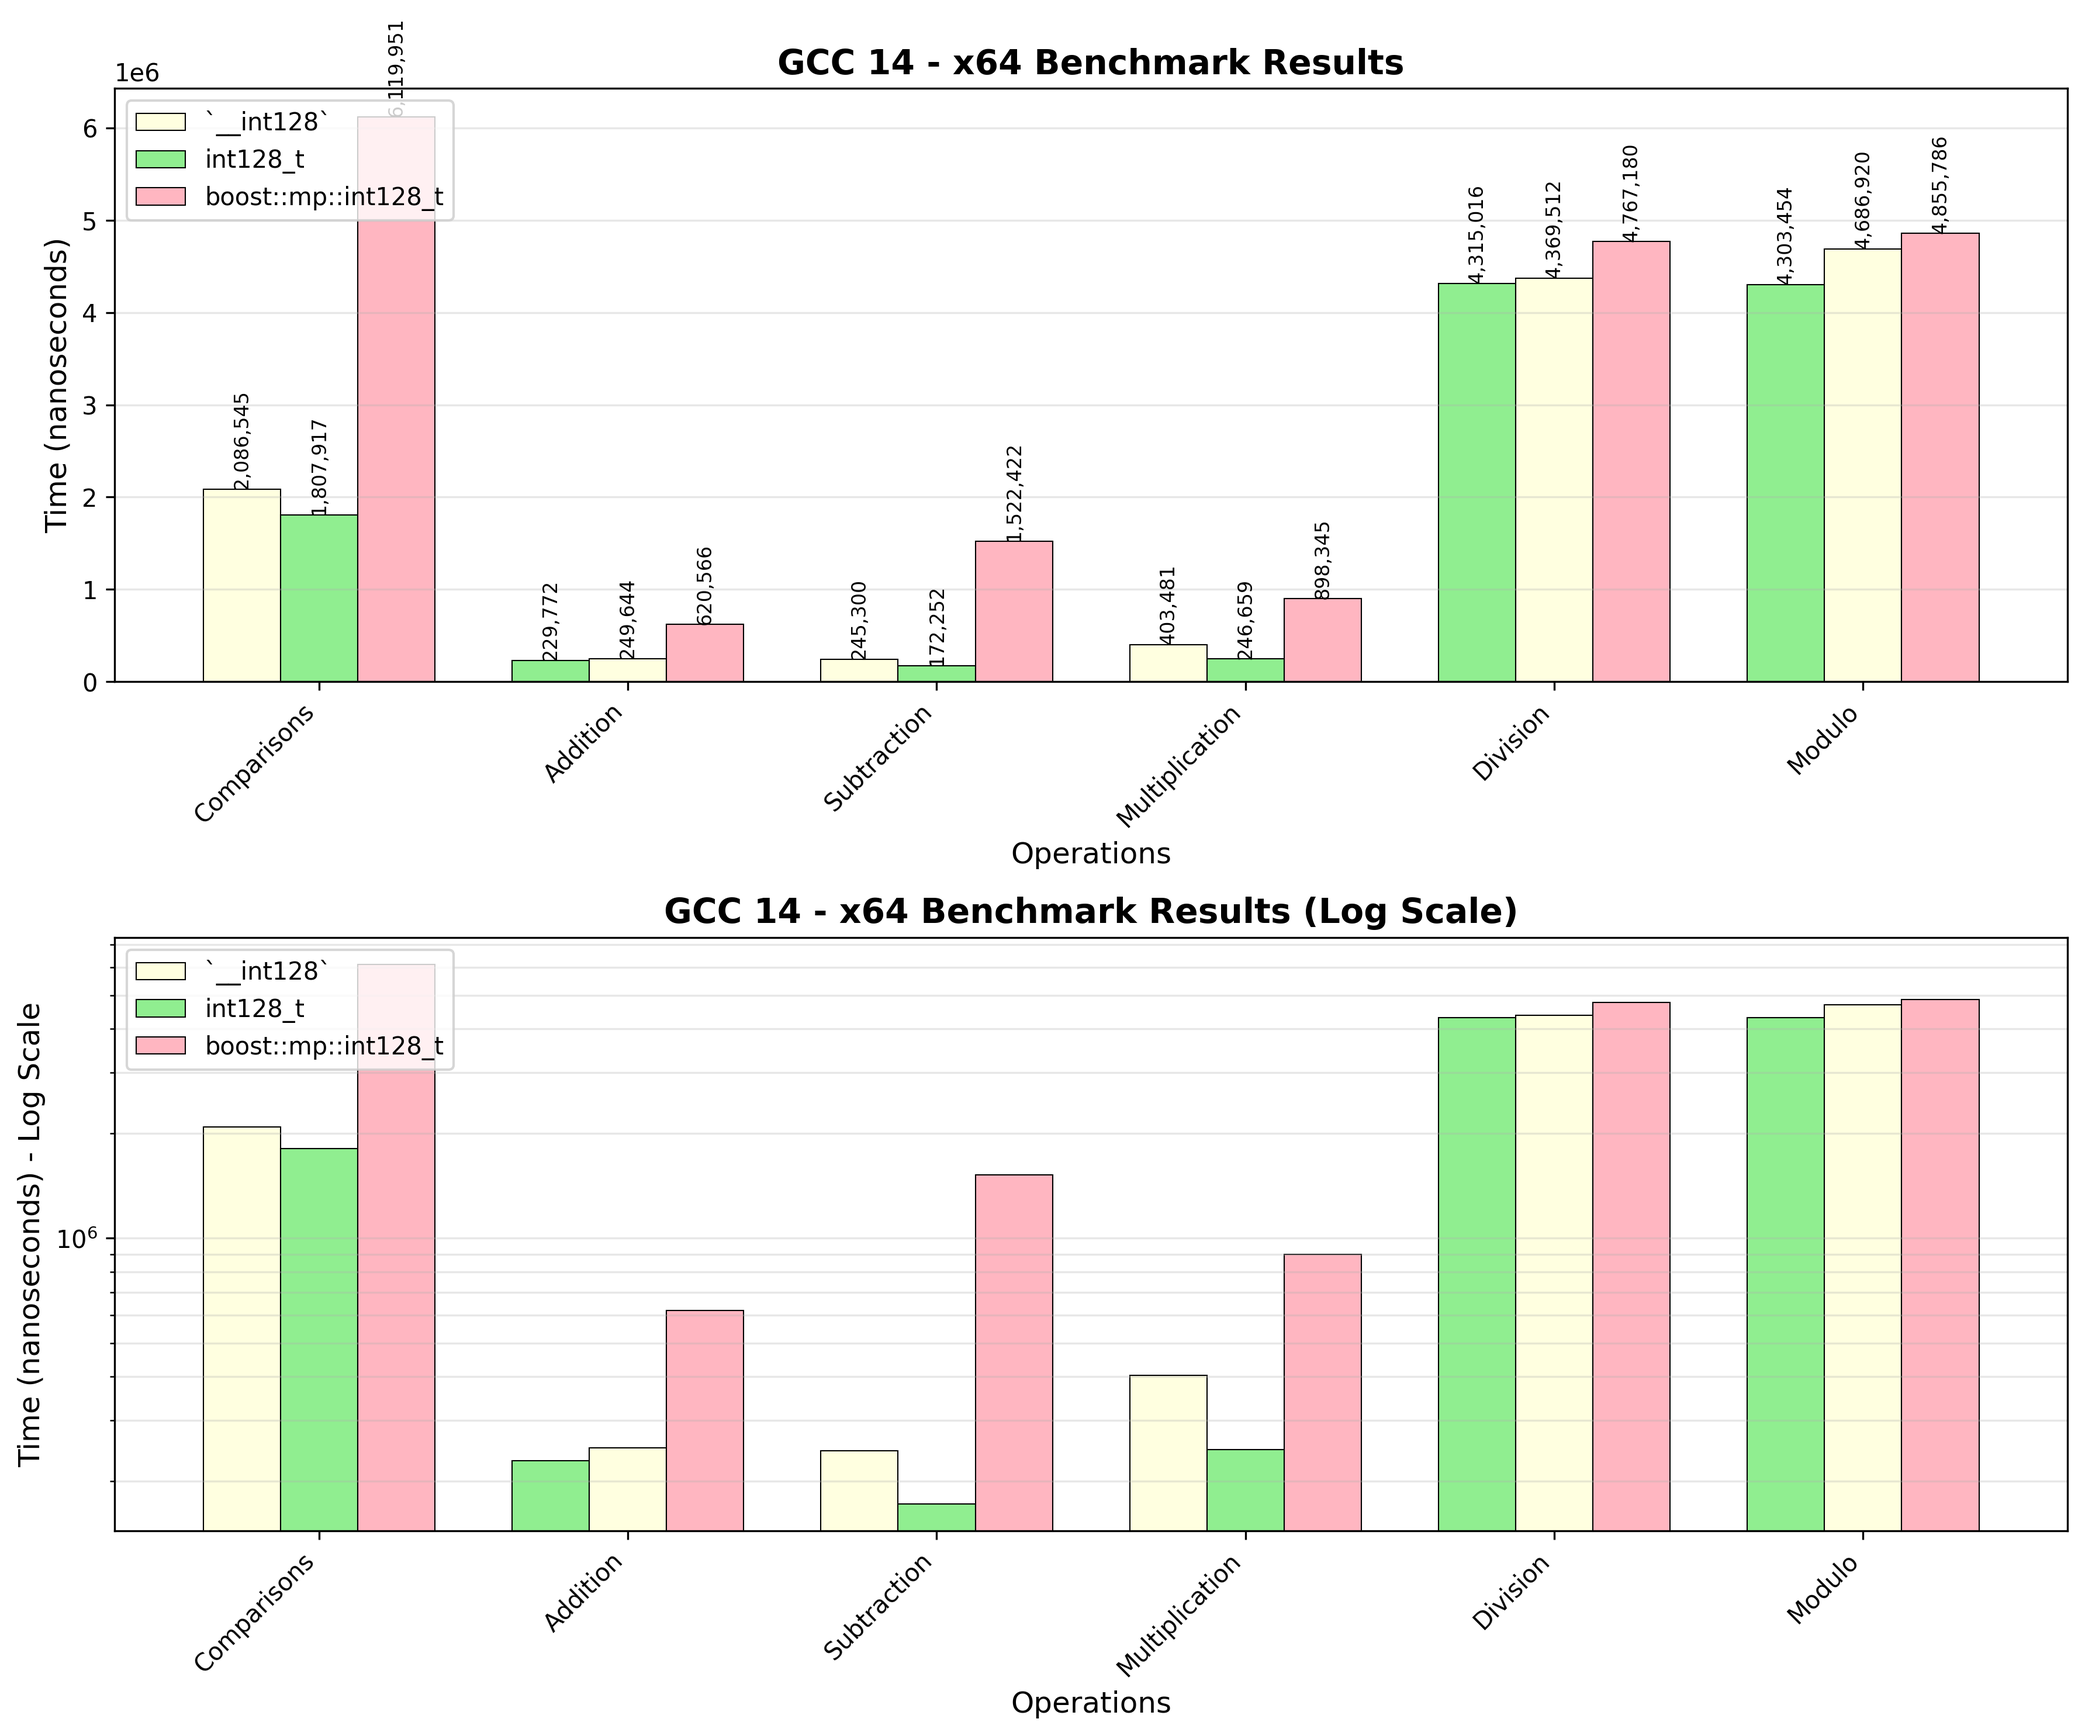
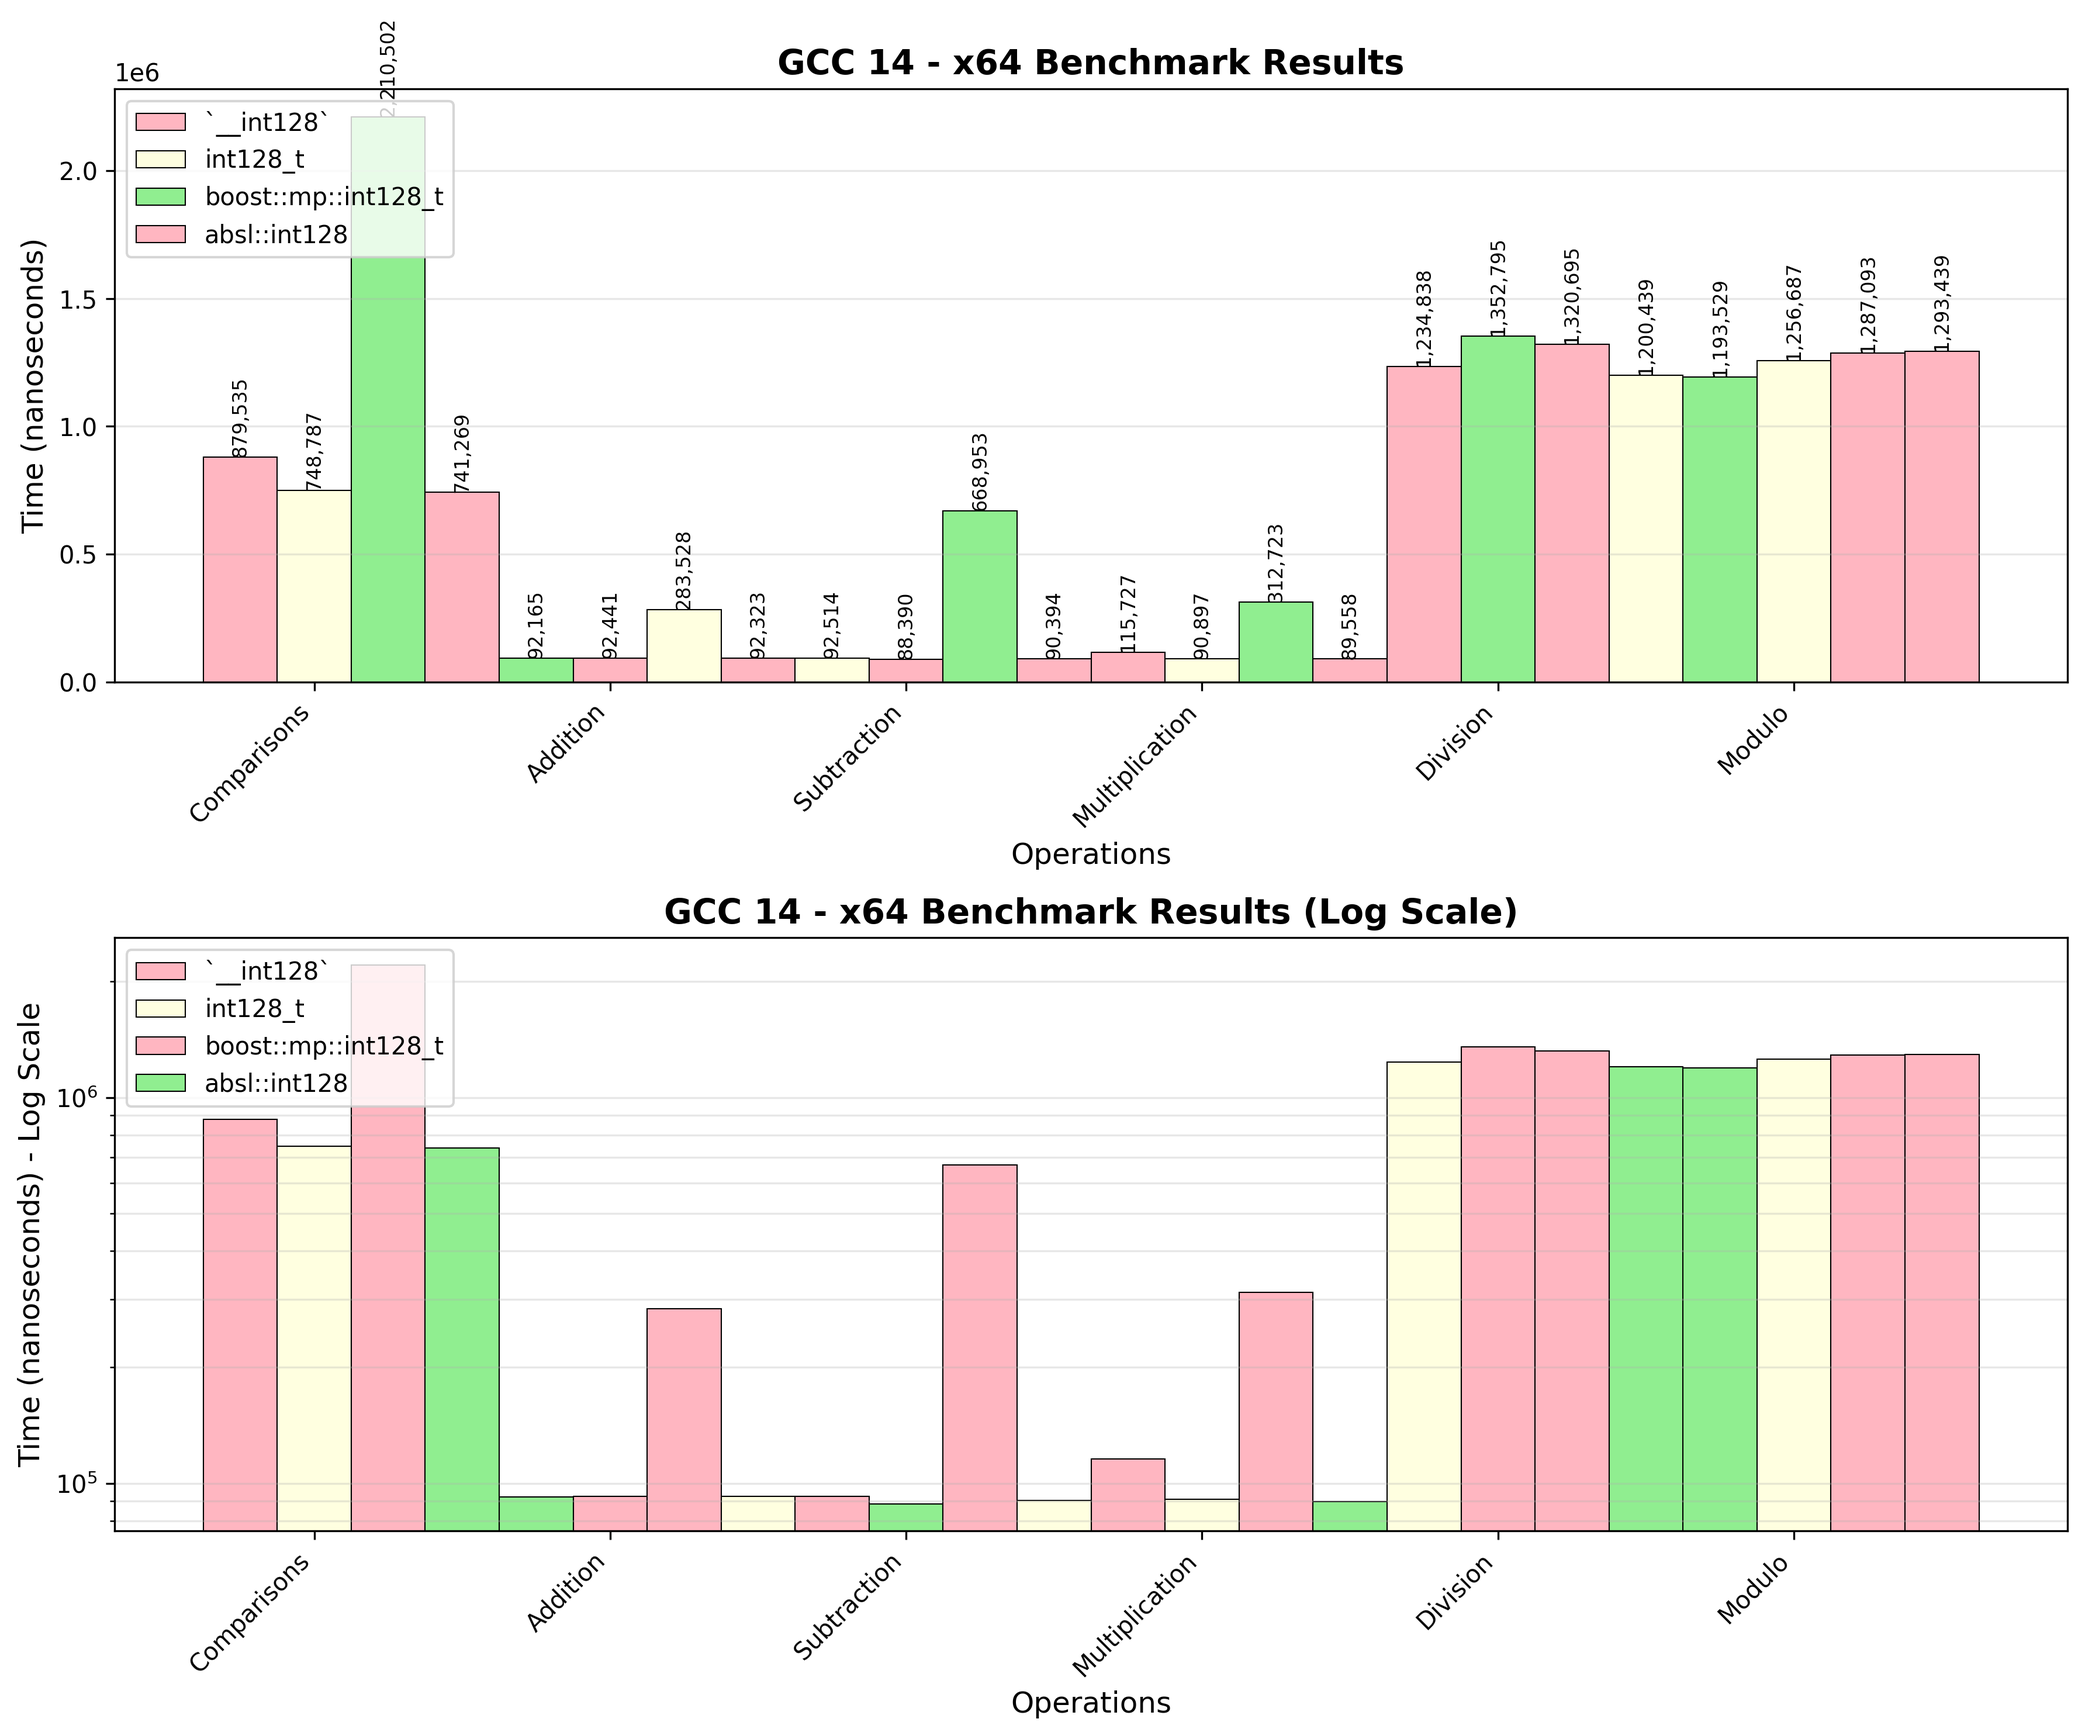
Update linux x64 graphs and tables

diff --git a/doc/signed_plots.py b/doc/signed_plots.py
@@ -2,15 +2,14 @@ import matplotlib.pyplot as plt
 import numpy as np
 import pandas as pd
 
-"""
 # Linux x64
 data = {
     'Operation': ['Comparisons', 'Addition', 'Subtraction', 'Multiplication', 'Division', 'Modulo'],
-    '`__int128`': [2086545, 229772, 245300, 403481, 4315016, 4303454],
-    'int128_t': [1807917, 249644, 172252, 246659, 4369512, 4686920],
-    'boost::mp::int128_t': [6119951, 620566, 1522422, 898345, 4767180, 4855786]
+    '`__int128`': [879535, 92165, 92514, 115727, 1234838, 1193529],
+    'int128_t': [748787, 92441, 88390, 90897, 1352795, 1256687],
+    'boost::mp::int128_t': [2210502, 283528, 668953, 312723, 1320695, 1287093],
+    'absl::int128': [741269, 92323, 90394, 89558, 1200439, 1293439],
 }
-"""
 
 """
 # Linux ARM64
@@ -48,7 +47,7 @@ data = {
     'boost::mp::int128_t': [4318109, 925013, 1876834, 651209, 3719183, 4443402]
 }
 """
-
+"""
 # macos ARM
 data = {
     'Operation': ['Comparisons', 'Addition', 'Subtraction', 'Multiplication', 'Division', 'Modulo'],
@@ -57,7 +56,7 @@ data = {
     'boost::mp::int128_t': [340555, 169909, 172497, 78269, 969277, 1026090],
     'absl::int128': [133509, 20208, 22199, 20364, 663602, 717897]
 }
-
+"""
 """
 # MSVC 14.3 - ARM64
 data = {
@@ -122,7 +121,7 @@ for i, (idx, row) in enumerate(df.iterrows()):
 
 ax1.set_xlabel('Operations', fontsize=12)
 ax1.set_ylabel('Time (nanoseconds)', fontsize=12)
-ax1.set_title('Clang 20.1 - ARM64 Benchmark Results', fontsize=14, fontweight='bold')
+ax1.set_title('GCC 14 - x64 Benchmark Results', fontsize=14, fontweight='bold')
 ax1.set_xticks(x)
 ax1.set_xticklabels(operations, rotation=45, ha='right')
 ax1.legend(loc='upper left')
@@ -151,7 +150,7 @@ for i, impl in enumerate(implementations):
 
 ax2.set_xlabel('Operations', fontsize=12)
 ax2.set_ylabel('Time (nanoseconds) - Log Scale', fontsize=12)
-ax2.set_title('Clang 20.1 - ARM64 Benchmark Results (Log Scale)', fontsize=14, fontweight='bold')
+ax2.set_title('GCC 14 - x64 Benchmark Results (Log Scale)', fontsize=14, fontweight='bold')
 ax2.set_yscale('log')
 ax2.set_xticks(x)
 ax2.set_xticklabels(operations, rotation=45, ha='right')
@@ -159,7 +158,7 @@ ax2.legend(loc='upper left')
 ax2.grid(axis='y', alpha=0.3, which='both')
 
 plt.tight_layout()
-plt.savefig('ARM64_benchmarks.png', dpi=300, bbox_inches='tight')
+plt.savefig('x64_benchmarks.png', dpi=300, bbox_inches='tight')
 plt.show()
 
 # Create a normalized performance chart
@@ -188,7 +187,7 @@ ax3.axhline(y=1.0, color='red', linestyle='--', alpha=0.5, label='`__int128` bas
 
 ax3.set_xlabel('Operations', fontsize=12)
 ax3.set_ylabel('Relative Performance (vs __int128)', fontsize=12)
-ax3.set_title('Relative Performance Comparison - ARM64', fontsize=14, fontweight='bold')
+ax3.set_title('Relative Performance Comparison - x64', fontsize=14, fontweight='bold')
 ax3.set_xticks(x)
 ax3.set_xticklabels(operations, rotation=45, ha='right')
 ax3.legend()
@@ -199,7 +198,7 @@ ax3.text(0.02, 0.98, 'Lower is better', transform=ax3.transAxes,
          fontsize=10, verticalalignment='top', style='italic')
 
 plt.tight_layout()
-plt.savefig('ARM64_relative_performance.png', dpi=300, bbox_inches='tight')
+plt.savefig('x64_relative_performance.png', dpi=300, bbox_inches='tight')
 plt.show()
 
 # Generate summary statistics
